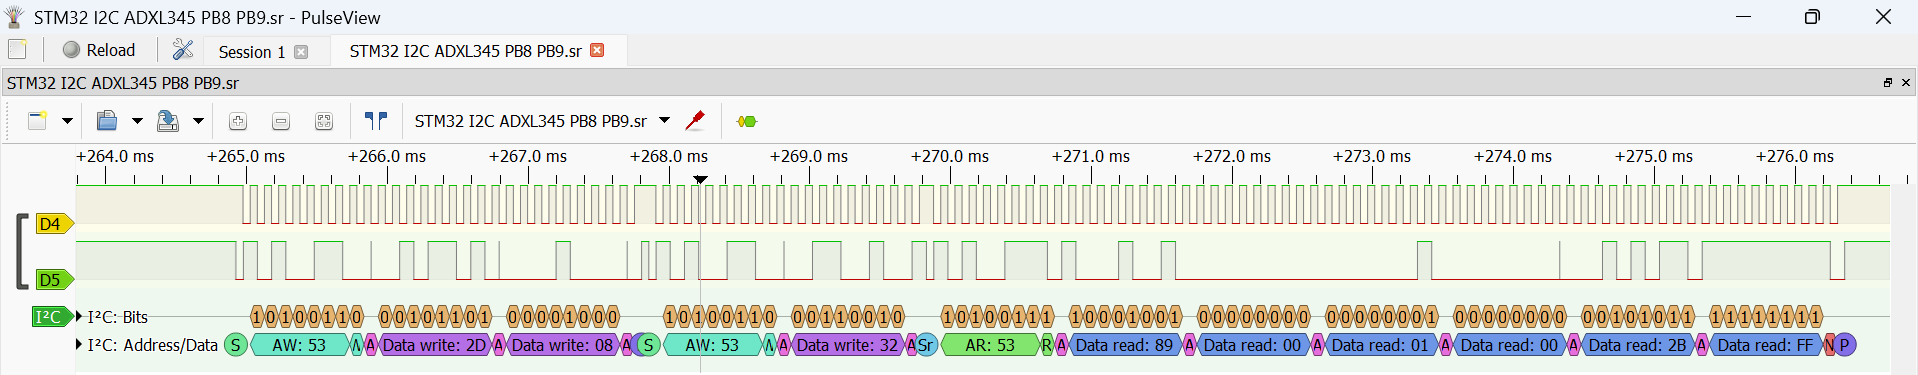
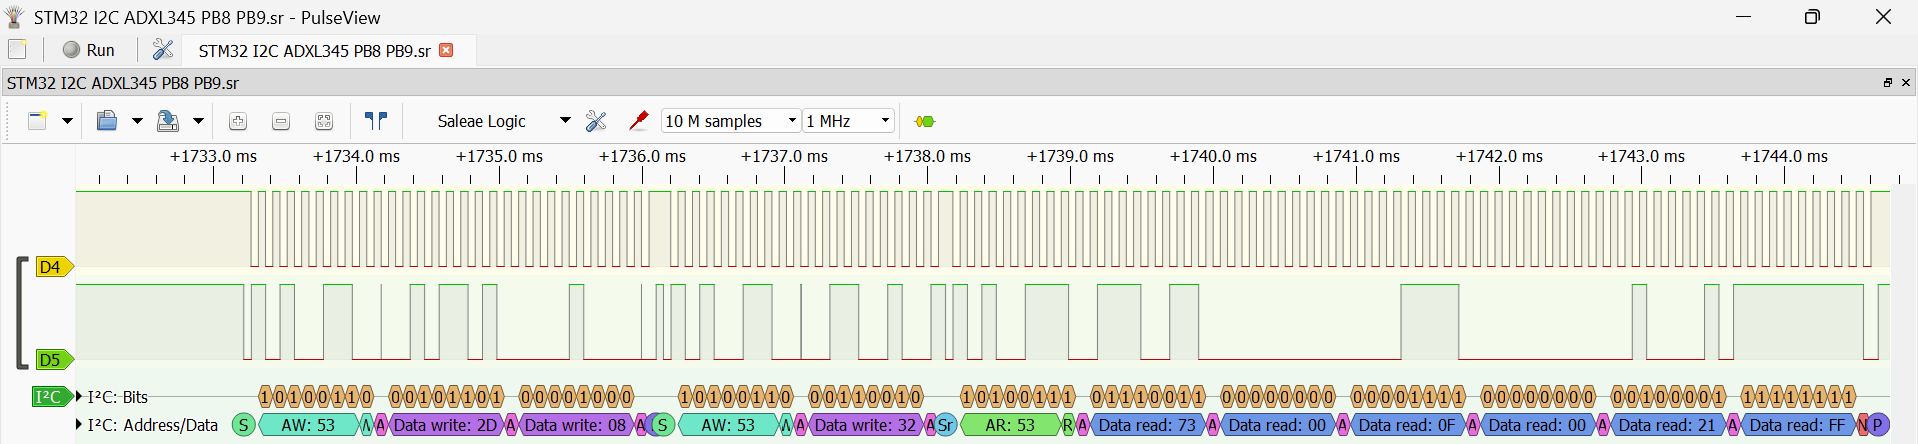
removed redundant sections of adxl.c and fixed multi-byte read process to stop after 6th byte

diff --git a/Core/Src/adxl.c b/Core/Src/adxl.c
@@ -76,113 +76,24 @@ uint8_t I2C_init(void){
 	  // Wait until SB is 1
   }
 
-  // write the address to SDA bus via data register
-  I2C1 -> DR = (0x53 << 1);
 
-
-  // Implements 500 ms wait time before time out
-  TimerStart();
-  while(!(I2C1 -> SR1 & (1U << 1))){
-	  if((SysTick -> CTRL & (1U << 16))){
-		  return 1; // Error: I2C Timeout Occurred
-	  }
-  }
   return 0;
 }
 
 uint8_t ADXL345_pwr(void){
-  // Perform reads on the status registers to reset ADDR bit
-  (void)I2C1 -> SR1;
-  (void)I2C1 -> SR2;
-
-  I2C1 -> DR = (0x2D);
-
-  // Set delay for sending the bits
-  // Makes sure data register is empty before proceeding
-  while (!(I2C1-> SR1 & (1U << 7))){
-
-  }
-
-  // waiting for byte transfer finished state
-  TimerStart();
-  while (!(I2C1-> SR1 & (1U << 2))){
-	  if((SysTick -> CTRL & (1U << 16))){
-		  return 1; // Error: I2C Timeout Occurred
-	  }
-  }
-
-  // Repeated start to change to receiver mode
-  I2C1 -> CR1 |= (1U << 8);
-
-  // Wait for SB flag
-  while(!(I2C1->SR1 & (1U << 0))) {
-	  // Wait until SB is 1
-  }
-
-  I2C1 -> DR = (0x53 << 1) | 1U;
-
-  // check for ADDR register
-  TimerStart();
-  while(!(I2C1 -> SR1 & (1U << 1))){
-	  if((SysTick -> CTRL & (1U << 16))){
-		  return 1; // Error: I2C Timeout Occurred
-	  }
-  }
-
-  // Set NACK to stop the sensor from sending information
-  I2C1 -> CR1 &= ~(1U << 10);
-
-  // Perform reads on the status registers to reset ADDR bit
-  (void)I2C1 -> SR1;
-  (void)I2C1 -> SR2;
-
-
-  I2C1 -> CR1 |= (1U << 9); // prepare stop
-
-  // Check if the data register is not empty
-  TimerStart();
-  while(!(I2C1 -> SR1 & (1U << 6))){
-	  if((SysTick -> CTRL & (1U << 16))){
-		  return 1; // Error: I2C Timeout Occurred
-	  }
-  }
-
-  uint8_t devpwr = I2C1 -> DR;
-
-  // Set ACK to 1 again to return to original state
-  I2C1 -> CR1 |= (1U << 10);
-  return 0;
-}
-
-uint8_t ADXL345_read(){
-  // Now we get to powerctl and control the ADXL345
-
-  // Start again, since we issued a stop previously
-  I2C1 -> CR1 |= (1U << 8);
-
-  TimerStart();
-  // Wait for SB flag
-  while(!(I2C1->SR1 & (1U << 0))) {
-	  if((SysTick -> CTRL & (1U << 16))){
-		  return 1; // Error: I2C Timeout Occurred
-	  }
-	  // Wait until SB is 1
-  }
-
+  // write the address to SDA bus via data register
   I2C1 -> DR = (0x53 << 1);
 
   // Implements 500 ms wait time before time out
   TimerStart();
   while(!(I2C1 -> SR1 & (1U << 1))){
 	  if((SysTick -> CTRL & (1U << 16))){
-		  return 1; // // Error: I2C Timeout Occurred
+		  return 1; // Error: I2C Timeout Occurred
 	  }
   }
-
-  // Perform reads on the status registers to clear ADDR bit
+  // Perform reads on the status registers to reset ADDR bit
   (void)I2C1 -> SR1;
   (void)I2C1 -> SR2;
-
 
   I2C1 -> DR = (0x2D);
 
@@ -210,9 +121,11 @@ uint8_t ADXL345_read(){
   }
 
   I2C1 -> CR1 |= (1U << 9); // prepare stop
+  return 0;
+}
 
+uint8_t ADXL345_read(){
   // Start reading the the ADXL345 data registers
-
   I2C1 -> CR1 |= (1U << 8);
 
   TimerStart();
@@ -277,7 +190,6 @@ uint8_t ADXL345_read(){
   }
 
   // ACK is still enabled here because we want 6 bytes in total
-
   // Perform reads on the status registers to reset ADDR bit
   (void)I2C1 -> SR1;
   (void)I2C1 -> SR2;
@@ -319,6 +231,10 @@ uint8_t ADXL345_read(){
   }
   data_buffer[3] = I2C1 -> DR;
 
+  // NACK and STOP must be set before reading the second-to-last byte to terminate the sequence correctly
+  I2C1 -> CR1 &= ~(1U << 10);
+  I2C1 -> CR1 |= (1U << 9);
+
   // fifth byte
   TimerStart();
   while(!(I2C1 -> SR1 & (1U << 6))){
@@ -326,8 +242,7 @@ uint8_t ADXL345_read(){
 		  return 1; // Error: I2C Timeout Occurred
 	  }
   }
-  I2C1 -> CR1 &= ~(1U << 10); // NACK and STOP must be set before reading the second-to-last byte to terminate the sequence correctly
-  I2C1 -> CR1 |= (1U << 9);
+
   data_buffer[4] = I2C1 -> DR;
 
   // sixth byte

diff --git a/Core/Src/main.c b/Core/Src/main.c
@@ -103,7 +103,7 @@ int main(void)
     /* USER CODE END WHILE */
 	TimerStart();
 	while(!(SysTick -> CTRL & (1U << 16))){
-
+		// 500 ms interval between readings
 	}
 	ADXL345_read();
     /* USER CODE BEGIN 3 */